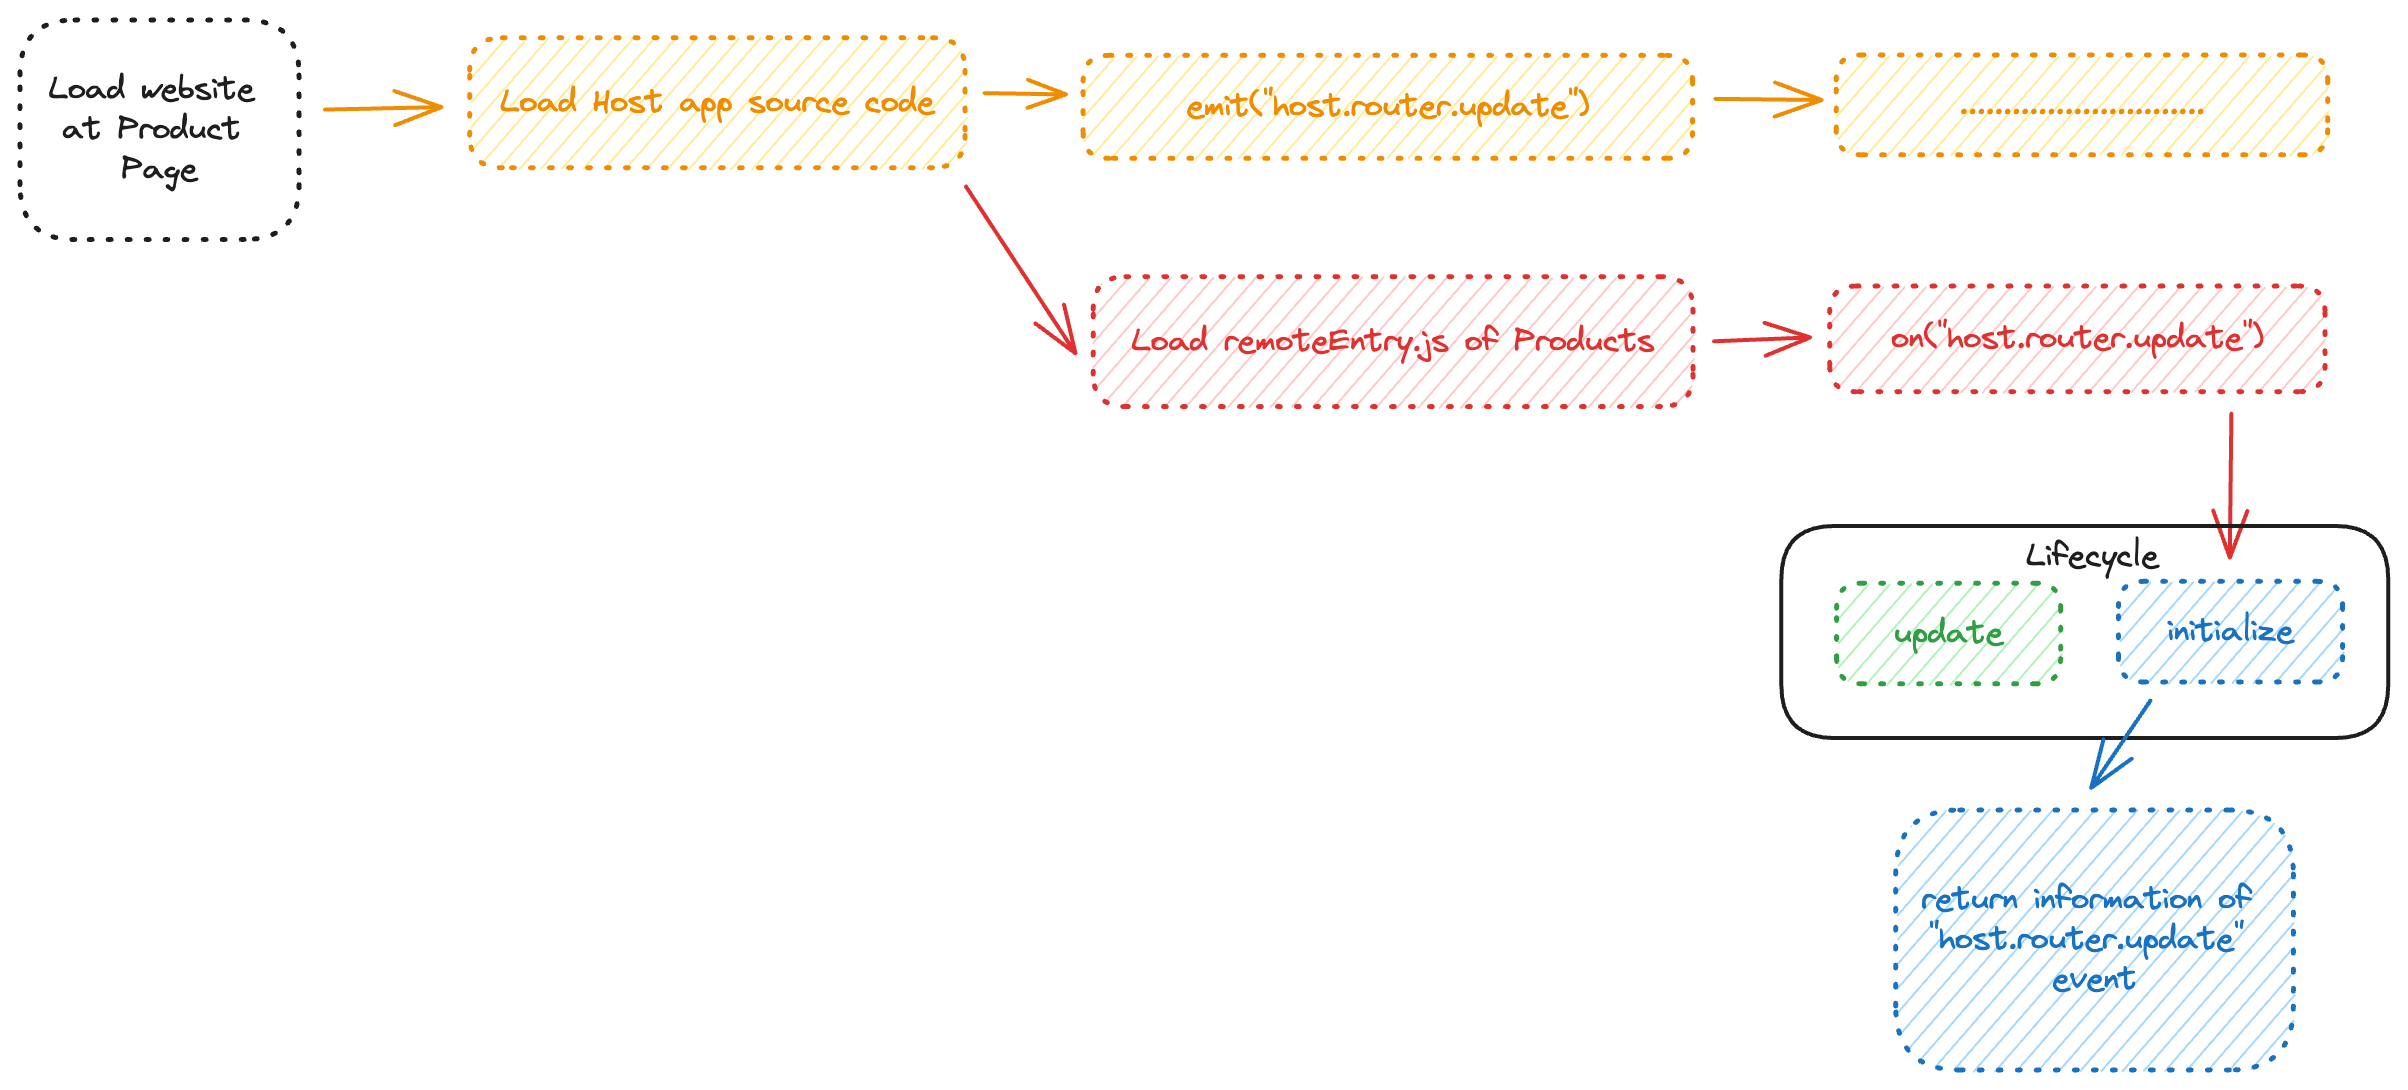
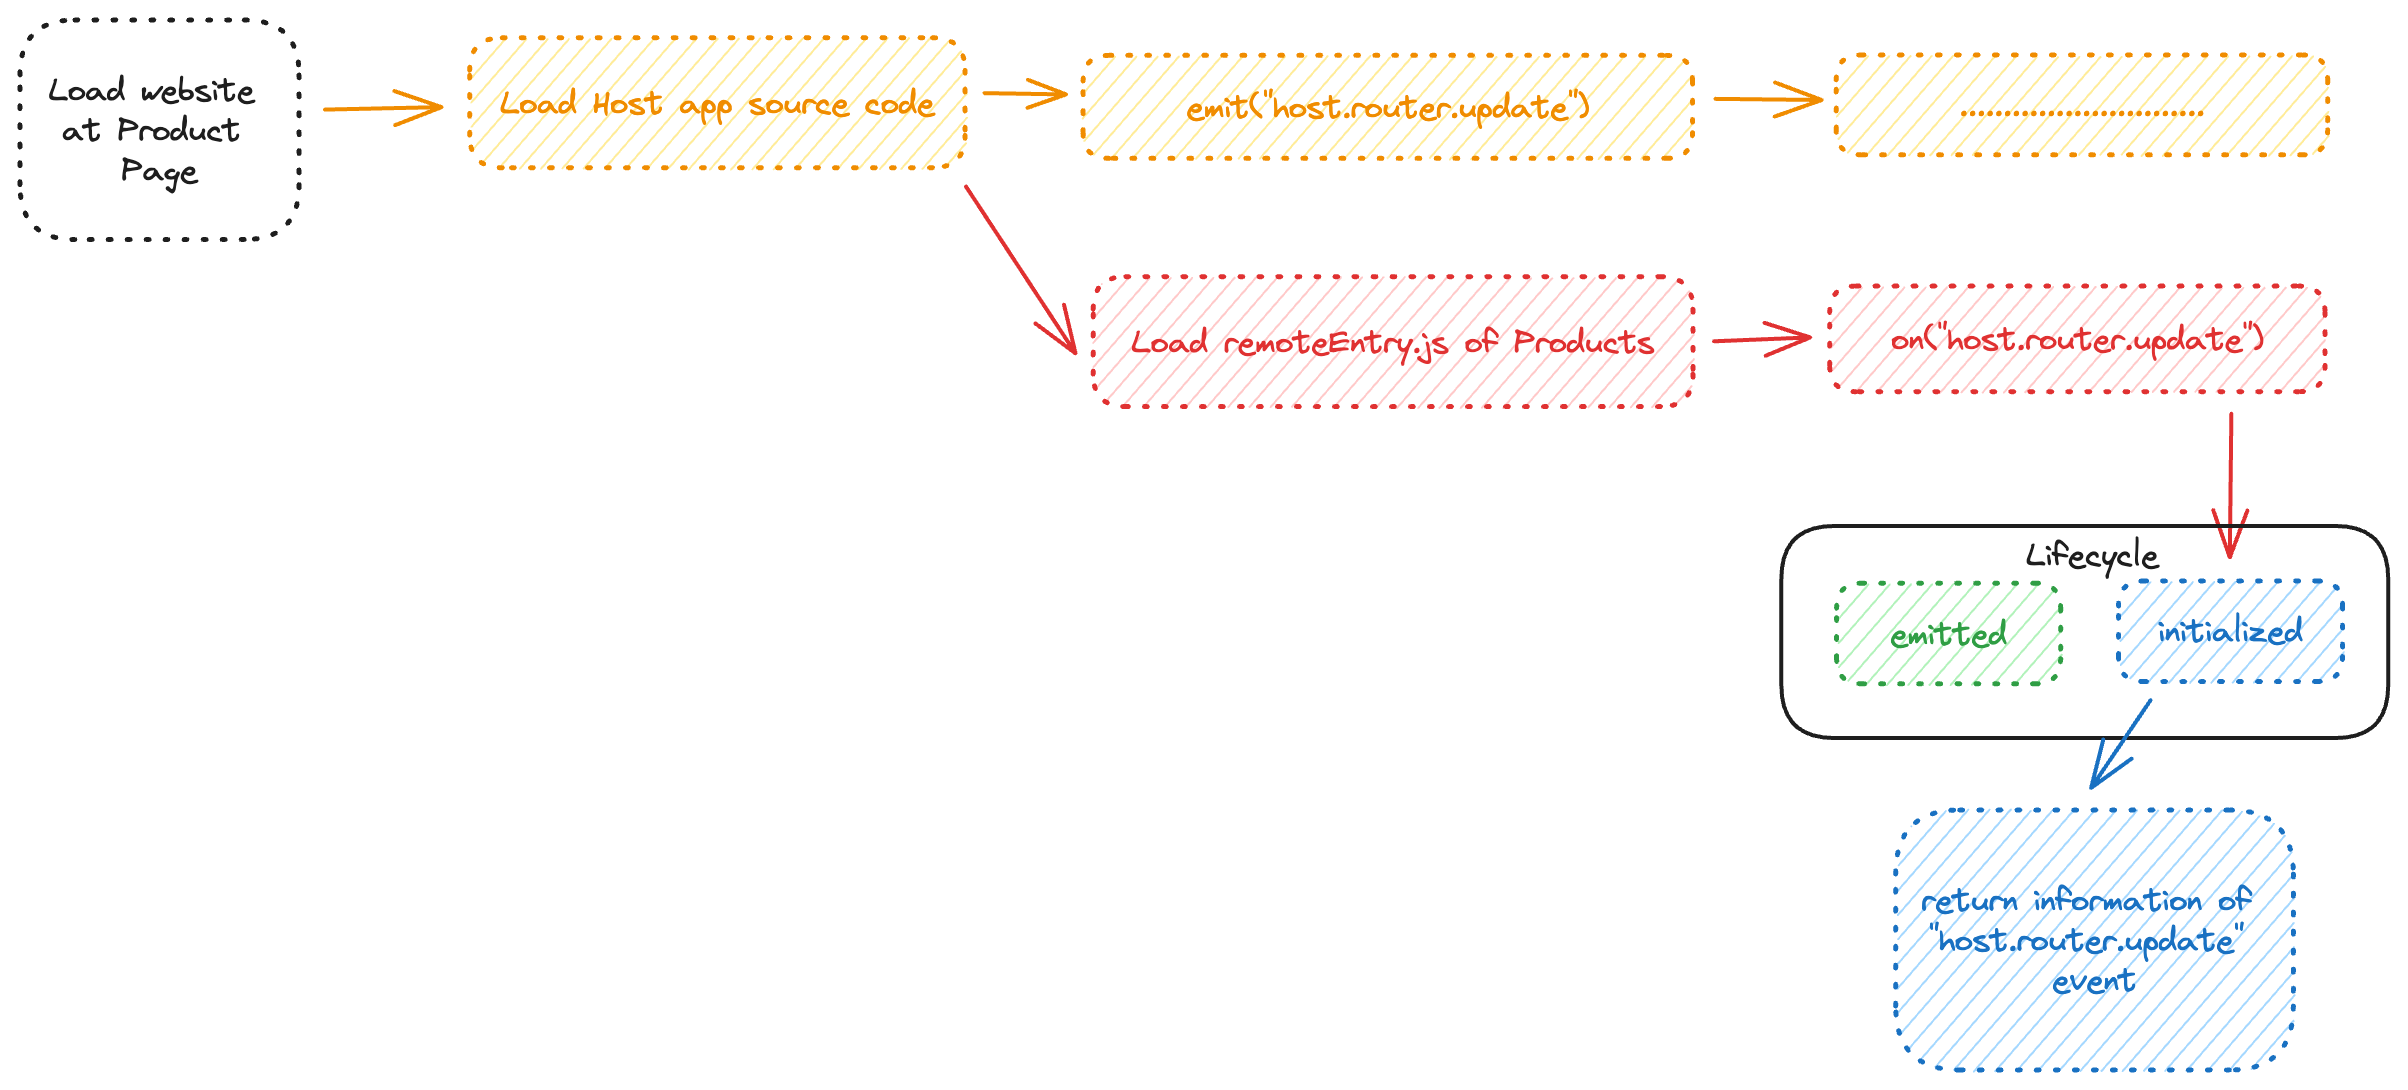
docs: update README

diff --git a/README.md b/README.md
@@ -47,9 +47,9 @@ Overcoming difficulties in event listening between remote and host apps due to t
 **Example Scenario**: Consider the scenario where the host loads first, and subsequent Products remote apps load later.
 The host immediately triggers an event `host.router.update` meant for a Product app that is still in the loading process,
 the Product app may fail to capture the event.
-![event listening flow](/document/image.png)
-
-**Solution**: To mitigate this, a mechanism has been developed to store emitted events and re-emit them once the remote app successfully loads. At this time, Product app still get information of event `host.router.update` from host app at `initialize` lifecycle state, and continue to handle next step.
+![event listening flow](image.png)
+**Solution**: To mitigate this, a mechanism has been developed to store emitted events and re-emit them once the remote app successfully loads. At this time, Product app still get information of event `host.router.update` from host app at `initialized` lifecycle state, and continue to handle next step.
+The library supports this mechanism: [nano-event-bus-ts](https://github.com/lequochung19971/nano-event-bus-ts)
 
 ## Technologies and Solutions
 
